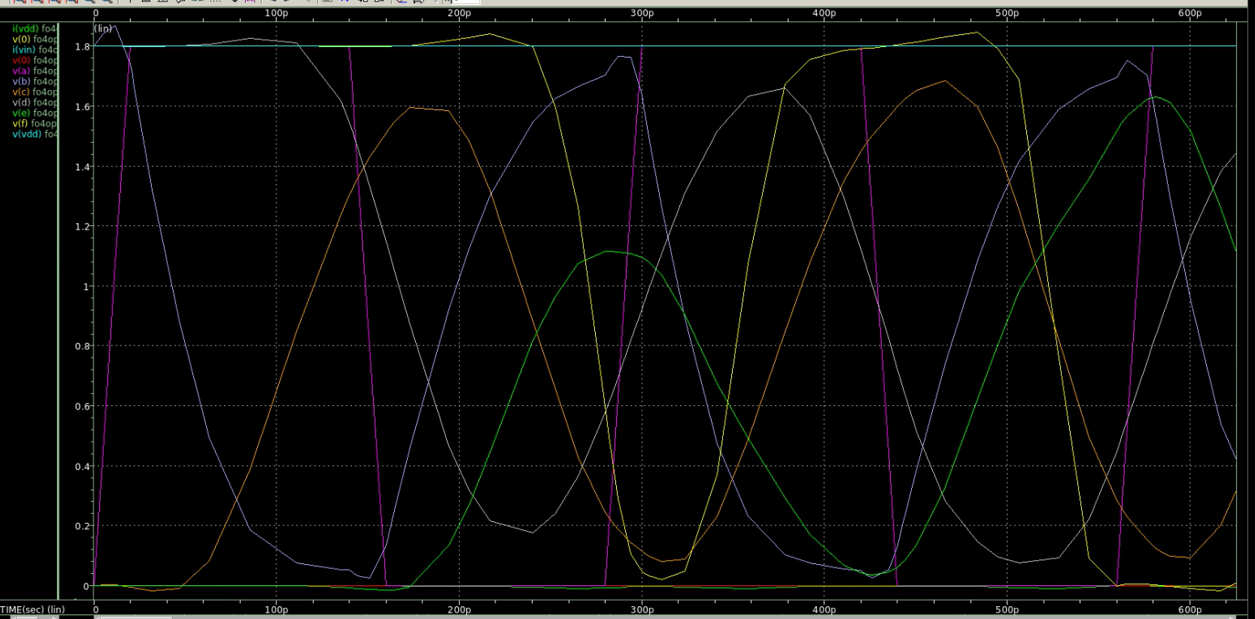
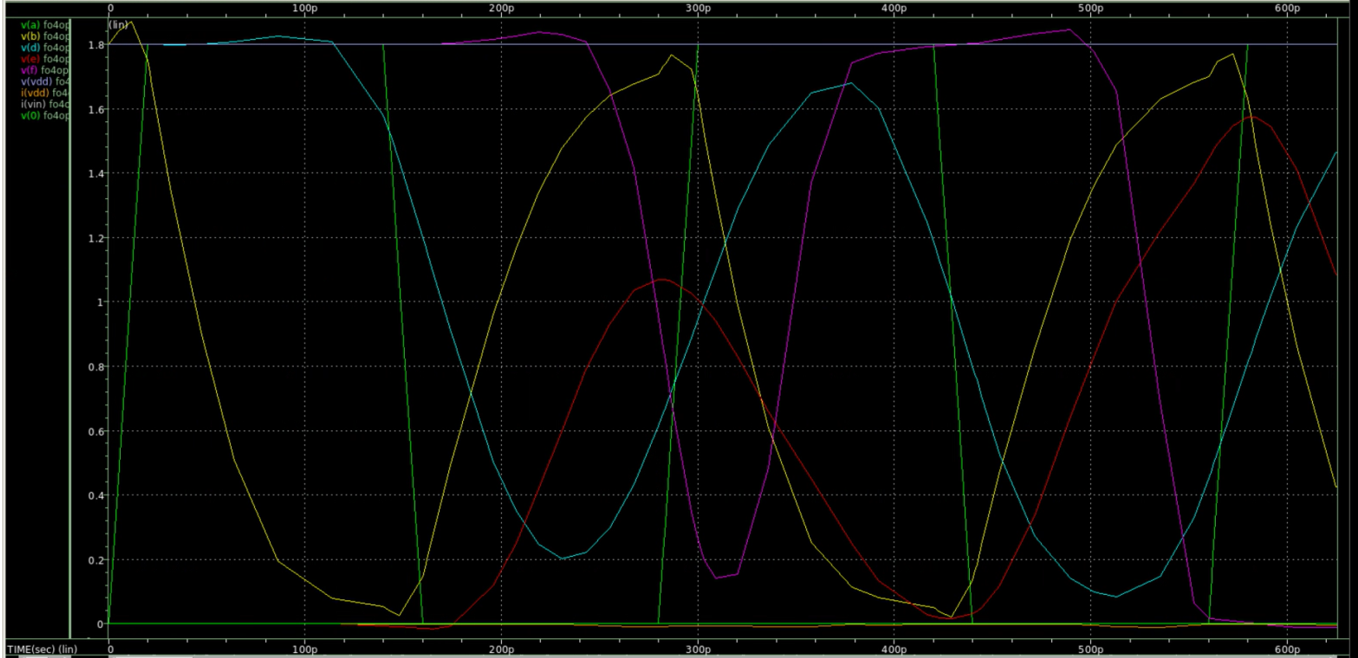
actualizar fo4opt

diff --git a/README.md b/README.md
@@ -228,7 +228,7 @@ X5 e f inv P='P1' M=256 * load on load
 *----------------------------------------------------------------------
 * Optimization setup
 *----------------------------------------------------------------------
-.param P1=optrange(8,4,16) * search from 4 to 16, guess 8
+.param P1=optrange(17.6,8.8,35.2) * search from 8.8 to 35.2, guess 17.6
 .model optmod opt itropt=30 * maximum of 30 iterations
 .measure bestratio param='P1/4' * compute best P/N ratio
 *----------------------------------------------------------------------
@@ -252,11 +252,11 @@ Con el código anterior se obtiene la siguiente gráfica:
 Y en base a estos resultados también se obtienen los siguientes valores ya optimizados:
 |Parámetro|Tiempo(ps)|Targ|Trig|
 |---|---|---|---|
-|tpdr|59.3174|298.8194|239.5020|
-|tpdf|57.2955|171.7359|114.4404|
-|tpd|58.3064|||
+|tpdr|57.9524|297.3057|239.3533|
+|tpdf|58.4849|174.5592|116.0743|
+|tpd|58.2187|||
 
-Esto indica una diferencia de 2.0219ps.
+Esto indica una diferencia de tpdr-tpdf de -532.5770fs.
 
 ## Comparación de simulación y cálculos
 
